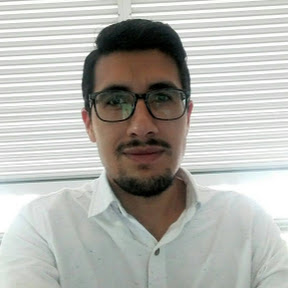
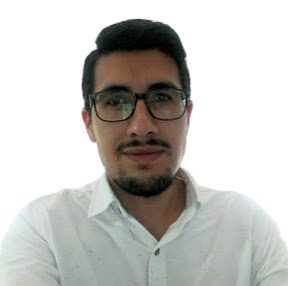
Profile photo added, and it initiated the title section

diff --git a/style.css b/style.css
@@ -93,6 +93,10 @@ nav{
 
 section.title {}
 
+.title__profile{
+    border-radius: 50%;
+}
+
 /*Sección About*/
 
 section.about {}
